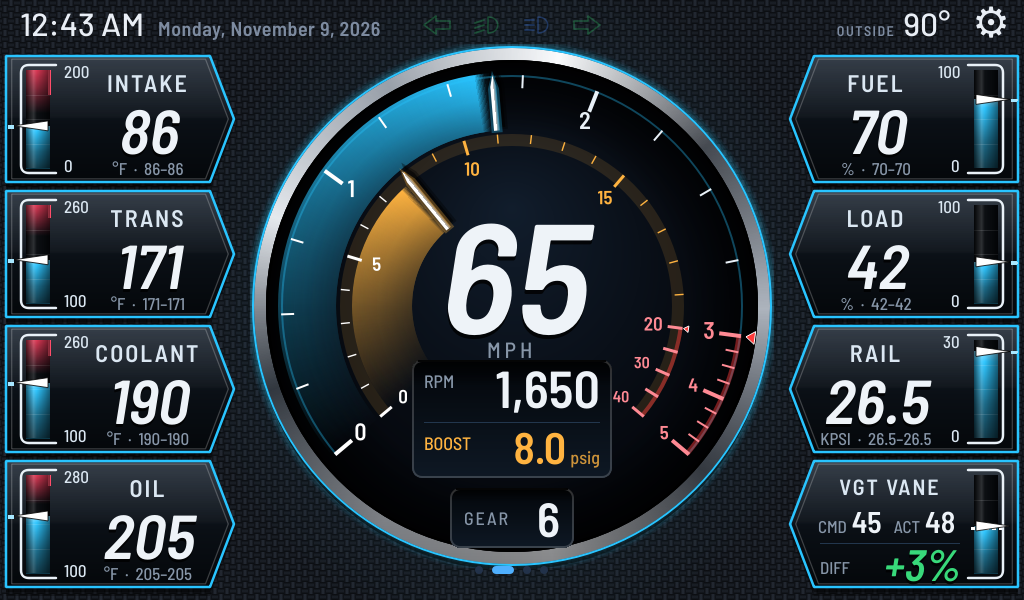
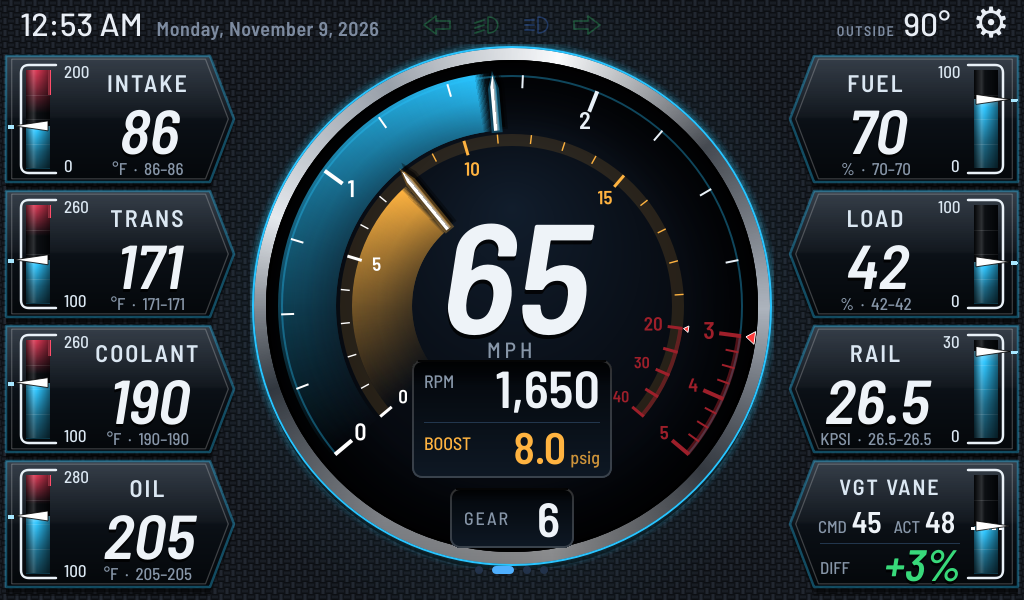
Towing page: K4 peak trail, L4 dim panel outlines, D4 deep red scale zone; round chrome ring options (H1-H3)
Claude-Session: https://claude.ai/code/session_01NB1fkpFcGY28RY4JZ8NWPC

diff --git a/gaugeworks/qml/TowGauge.qml b/gaugeworks/qml/TowGauge.qml
@@ -30,10 +30,11 @@ Item {
     property color ghostColor: "#ff6a00"   // JP's pick: O3 deep orange
     property real ghostAlpha: 0.9
     property bool ghostTrail: true
-    property real pkTrailDeg: 9       // peak needle's glow trail: length (degrees) and strength
-    property real pkTrailA: 0.32
-    property color scaleRed: "#c42a35"   // red-zone ticks and numbers on the scales
-    property int ringStyle: 0         // 0 current; 1 chrome bevel + soft backlight; 2 chrome + strong backlight; 3 wide turned chrome + backlight
+    property real pkTrailDeg: 32       // peak needle's glow trail: length (degrees) and strength
+    property real pkTrailA: 0.75   // JP's pick: K4
+    property color scaleRed: "#9e1f2a"   // red-zone ticks and numbers on the scales
+    property int ringStyle: 0         // 0 current; 1 chrome bevel + soft backlight; 2 chrome + strong backlight; 3 wide turned chrome + backlight;
+                                      // 4-6 round chrome tube (like a hoop earring) + backlight: 4 slim, 5 thick, 6 thick polished
     property int holdMs: 3500         // hold the peak this long, then ease back to the needle in about 2.5 s
     property real demoRPeak: NaN      // screenshots only
     property real demoIPeak: NaN
@@ -109,7 +110,9 @@ Item {
             var c = getContext("2d"); c.reset()
             if (g.ringStyle === 0) return
             var cx = g.cx + 60, cy = g.cy + 60, R = g.rd, st = g.ringStyle
-            var W = st === 3 ? 20 : 15, glowA = st === 2 ? 0.75 : 0.45, glowW = st === 2 ? 52 : 38
+            var W = st === 3 ? 20 : st === 4 ? 16 : st >= 5 ? 22 : 15
+            var glowA = st === 2 || st === 6 ? 0.75 : 0.5, glowW = st === 2 || st === 6 ? 52 : 40
+            var tube = st >= 4
             var A = g.acc
             function ann(r0, r1, style) { c.beginPath(); c.arc(cx, cy, r1, 0, 2 * Math.PI, false); c.arc(cx, cy, r0, 2 * Math.PI, 0, true); c.fillStyle = style; c.fill() }
             function acc(a) { return Qt.rgba(A.r, A.g, A.b, a) }
@@ -119,6 +122,30 @@ Item {
             ann(R + W - 4, R + W + glowW, bl)
             // shadow the ring casts on the face
             ann(R - 10, R, (function() { var sg = c.createRadialGradient(cx, cy, R - 10, cx, cy, R); sg.addColorStop(0, "rgba(0,0,0,0)"); sg.addColorStop(1, "rgba(0,0,0,0.85)"); return sg })())
+            if (tube) {
+                // round tube: cast shadow, then a cross-section that's dark at both edges and bright at the crest,
+                // lit from the upper left, with a sharp shine and a faint reflected light underneath
+                ann(R - 2, R + W + 4, (function() { var sh = c.createRadialGradient(cx + 3, cy + 6, R - 2, cx + 3, cy + 6, R + W + 4)
+                    sh.addColorStop(0, "rgba(0,0,0,0)"); sh.addColorStop(0.3, "rgba(0,0,0,0.6)"); sh.addColorStop(0.7, "rgba(0,0,0,0.6)"); sh.addColorStop(1, "rgba(0,0,0,0)"); return sh })())
+                var tb = c.createRadialGradient(cx, cy, R, cx, cy, R + W)
+                tb.addColorStop(0, "#1a1d22"); tb.addColorStop(0.18, "#6b737e"); tb.addColorStop(0.42, "#e8ecf1")
+                tb.addColorStop(0.5, "#ffffff"); tb.addColorStop(0.6, "#c9cfd7"); tb.addColorStop(0.85, "#4a515b"); tb.addColorStop(1, "#14171b")
+                ann(R, R + W, tb)
+                var lt = c.createConicalGradient(cx, cy, Math.PI * 0.75)   // brighter toward the upper left, darker lower right
+                lt.addColorStop(0, "rgba(255,255,255,0.22)"); lt.addColorStop(0.25, "rgba(0,0,0,0)"); lt.addColorStop(0.5, "rgba(0,0,0,0.42)")
+                lt.addColorStop(0.75, "rgba(0,0,0,0)"); lt.addColorStop(1, "rgba(255,255,255,0.22)")
+                ann(R, R + W, lt)
+                var sp = st === 6 ? 0.95 : 0.7
+                c.lineCap = "round"; c.lineWidth = st === 4 ? 2.5 : 3.5
+                c.strokeStyle = "rgba(255,255,255," + sp + ")"
+                c.beginPath(); c.arc(cx, cy, R + W * 0.44, Math.PI * 1.08, Math.PI * 1.42); c.stroke()
+                c.lineWidth = 1.5; c.strokeStyle = "rgba(255,255,255," + (sp * 0.55) + ")"
+                c.beginPath(); c.arc(cx, cy, R + W * 0.44, Math.PI * 1.55, Math.PI * 1.7); c.stroke()
+                c.lineWidth = 2; c.strokeStyle = acc(0.5)   // accent light reflected on the lower edge of the tube
+                c.beginPath(); c.arc(cx, cy, R + W * 0.82, Math.PI * 0.15, Math.PI * 0.85); c.stroke()
+                c.lineWidth = 2.5; c.strokeStyle = acc(0.9); c.beginPath(); c.arc(cx, cy, R + W + 1.5, 0, 2 * Math.PI); c.stroke()
+                return
+            }
             // chrome
             var gr = c.createConicalGradient(cx, cy, Math.PI * 0.44)
             var cs = ["#ffffff", "#7d8692", "#eef1f4", "#3c434c", "#d3d8df", "#ffffff", "#4a515b", "#c1c7cf", "#262b33", "#ffffff"]

diff --git a/gaugeworks/qml/TowPanel.qml b/gaugeworks/qml/TowPanel.qml
@@ -11,7 +11,7 @@ Item {
     property bool leftSide: true
     property color acc: "#29c4ff"
     property bool blinkOn: true
-    property real outlineA: 1.0   // outline brightness
+    property real outlineA: 0.35  // outline brightness (JP's pick: L4)
     signal held()
     width: 228; height: 126
 
